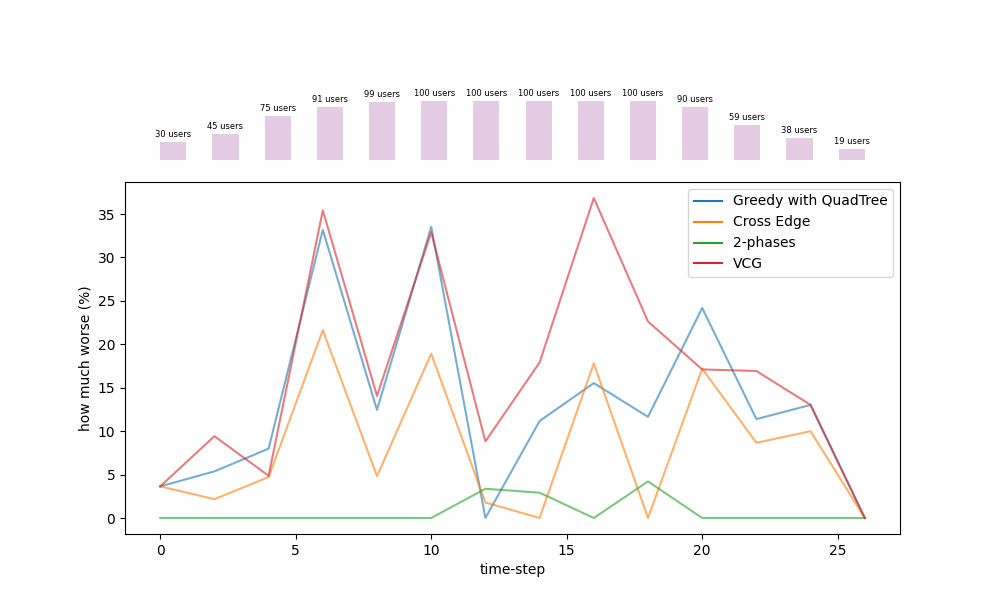
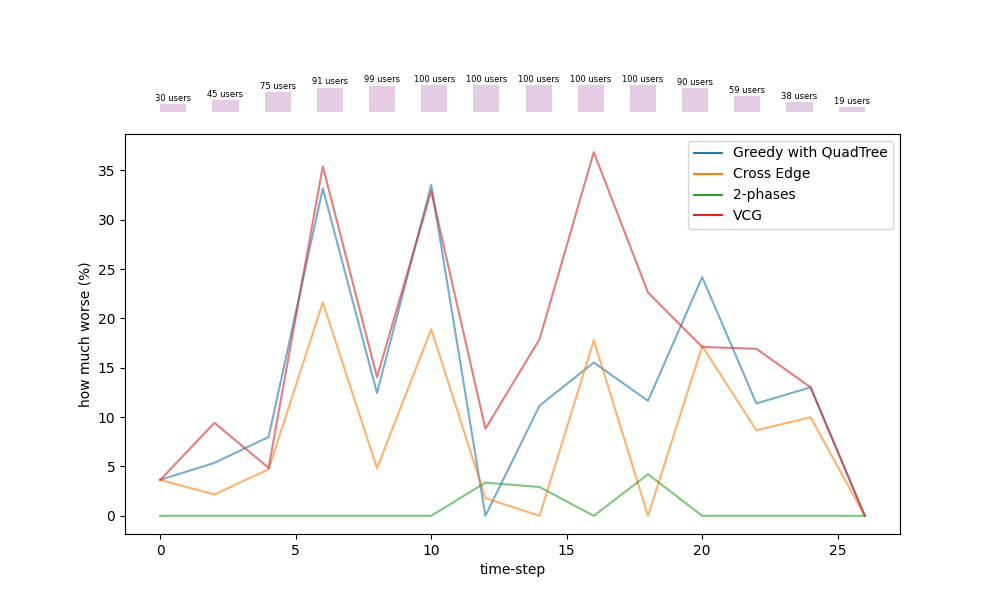
new types of plot

diff --git a/data_analysis/analysis.py b/data_analysis/analysis.py
@@ -68,7 +68,7 @@ def swAndProfitComparison(algorithms, users, instance, xAxis, yAxis):
     plt.savefig(f'{yAxis}_comparison_100.png')
     plt.show()
 
-def generateGraphsLine(algorithms, users, instance, graphType, x, y, ylabel, fileName):
+def generateGraphsLine(algorithms, users, instance, graphType, x, y, ylabel, fileName, xJitterStep, yJitterStep):
     dataframes = []
     for alg in algorithms:
         df = pd.read_csv(f'{PATH}{alg[0]}-{users}users/{graphType}_{alg[0]}_{instance}.csv')
@@ -85,18 +85,49 @@ def generateGraphsLine(algorithms, users, instance, graphType, x, y, ylabel, fil
     plt.savefig(f'{fileName}_comparison.png')
     plt.show()
 
+def plotWinners(algorithms, users, instance, graphType, x, y, ylabel, fileName):
+    dataframes = []
+    for alg in algorithms:
+        df = pd.read_csv(f'{PATH}{alg[0]}-{users}users/{graphType}_{alg[0]}_{instance}.csv')
+        df['algorithm'] = alg[1]
+        df[x] -= 1
+        df[x] /= 30
+        dataframes.append(df)
+
+    bar_width = 0.5
+    bar_positions = np.arange(len(dataframes[0][x]))
+    offset = bar_width / 4
+
+    fourth_bar_width = 1.2*bar_width
+
+    fig, ax = plt.subplots()
+
+    ax.bar(bar_positions - 2.4*offset, dataframes[0]['number of users'], width=fourth_bar_width, align='edge', alpha=0.5, color='white', edgecolor='black', linestyle="--", label='Users in the system')
+    ax.bar(bar_positions - 1.5*offset, dataframes[0][y], width=bar_width/4, align='center', label=dataframes[0]['algorithm'][0])
+    ax.bar(bar_positions - 0.5*offset, dataframes[1][y], width=bar_width/4, align='center', label=dataframes[1]['algorithm'][0])
+    ax.bar(bar_positions + 0.5*offset, dataframes[2][y], width=bar_width/4, align='center', label=dataframes[2]['algorithm'][0])
+    ax.bar(bar_positions + 1.5*offset, dataframes[3][y], width=bar_width/4, align='center', label=dataframes[3]['algorithm'][0])
+
+    ax.set_xlabel(x)
+    ax.set_ylabel(ylabel)
+    ax.set_xticks(bar_positions)
+    ax.set_yticks(np.arange(0, 101, 10))
+    ax.legend()
+    plt.savefig(f'{fileName}_comparison.png')
+    plt.show()
+
 def plotLatencyByComp(algorithms, users, instance, graphType, x, y, ylabel, fileName):
     dataframes = []
     for alg in algorithms:
         df = pd.read_csv(f'{PATH}{alg[0]}-{users}users/{graphType}_{alg[0]}_{instance}.csv')
         df['algorithm'] = alg[1]
         df['time-step'] -= 1
-        df['time-step'] /= 30
+        df['time-step'] /= 60
         dataframes.append(df)
     
-    fig, axs = plt.subplots(2, figsize=(10, 6), height_ratios=[1, 4])
+    fig, axs = plt.subplots(2, figsize=(10, 6), height_ratios=[1, 10])
     plt.subplots_adjust(hspace=0.1)
-    axs[0].bar(dataframes[0]['time-step'], dataframes[0]['number of users'], color='purple', alpha=0.2, width=1)
+    axs[0].bar(dataframes[0]['time-step'], dataframes[0]['number of users'], color='purple', alpha=0.2, width=0.8)
     axs[0].set_xticks([])
     axs[0].set_yticks([])
     axs[0].set_ylim([0, 150])
@@ -127,7 +158,6 @@ def plotLatencyByComp(algorithms, users, instance, graphType, x, y, ylabel, file
     
     plt.ylabel(ylabel)
     plt.savefig(f'{fileName}_comparison.png')
-    plt.subplot_tool()
     plt.show()
 
 def generateGraphs(algorithms, users, instance, graphType, x, y, 
@@ -183,14 +213,16 @@ instance = 11
 byTimeStep = 'time-step'
 byUsers = 'number of users'
 
+plotWinners(algorithms_, users, instance, 'prices', byTimeStep, 'number of winners', 'number of winners', 'winners_100')
+
 # buildBarPlot(algorithms_, users, instance, byTimeStep, 'number of users', 'users_bar')
 
 # buildBoxplot(algorithms_, users, instance, 'latencies', byUsers, 
 #               'avg latency (for the allocated)', 'latency (seconds)', 'lat_100')
 
-plotLatencyByComp(algorithms_, users, instance, 'latencies', byTimeStep, 
-                'avg latency (for the allocated)', 'diff compared to the best (seconds)',
-               'lat_100')
+# plotLatencyByComp(algorithms_, users, instance, 'latencies', byTimeStep, 
+#                'avg latency (for the allocated)', 'how much worse (%)',
+#               'lat_100')
 
 # cloudletsUsageComparison(algorithms_, users, instance)
 
@@ -205,7 +237,7 @@ plotLatencyByComp(algorithms_, users, instance, 'latencies', byTimeStep,
 #                'lat_100') 
 
 # generateGraphsLine(algorithms_, users, instance, 'prices', byTimeStep, 'number of winners', 
-#                 'winnner users', 'winners_100')
+#                'winnner users', 'winners_100', 0.1, 0)
 
 # swAndProfitComparison(algorithms_noVCG, users, instance, byTimeStep, 'social welfare')
 # swAndProfitComparison(algorithms_noVCG, users, instance, byTimeStep, 'prices')
